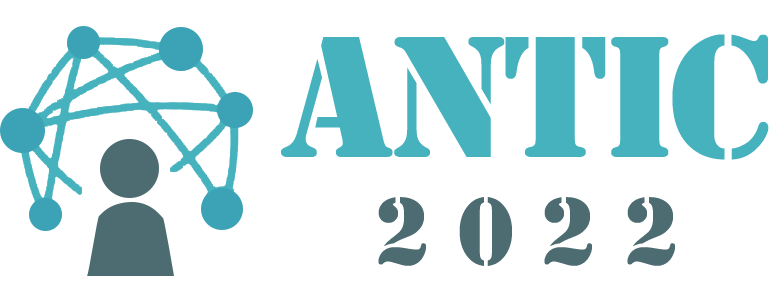
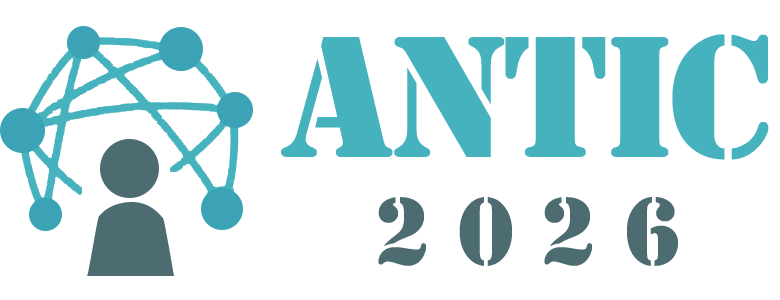
Antic 2026 init

Changed region(s): [[0.8, 0.66, 0.8923, 0.9]]

diff --git a/committee.html b/committee.html
@@ -82,7 +82,7 @@
     <header id="header">
       <div class="container">
         <div id="logo" class="pull-left">
-          <a href="/index.html" class="scrollto"><img src="/static/img/logo_antic-2025.png" alt=""></a>
+          <a href="/index.html" class="scrollto"><img src="/static/img/logo_antic-2026.png" alt=""></a>
         </div>
       </div>
       <nav id="nav-menu-container" style="padding-right: 5px;">